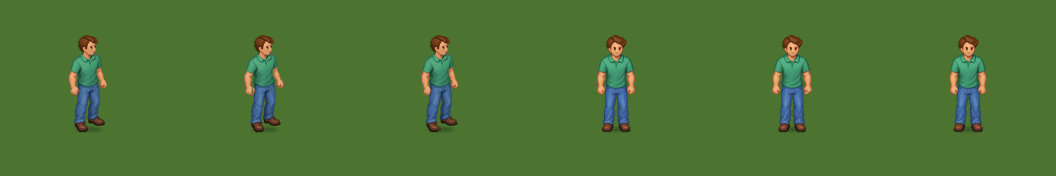
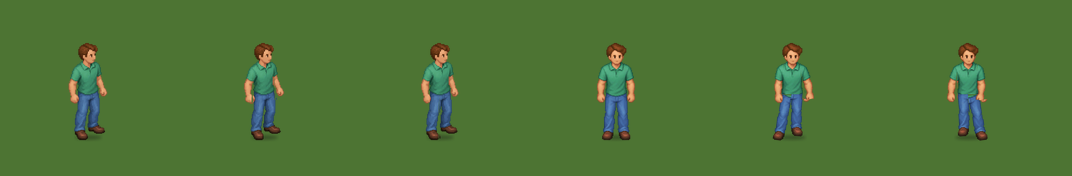
Give SOUTH frontal visitor distinct grounded walk frames

diff --git a/src/main.cpp b/src/main.cpp
@@ -3050,7 +3050,11 @@ int main() {
                         const int visual_count = mobile_animations.find_set("visitor_male_01_forge_preview") == nullptr ? 3 :
                             mobile_animations.find_set("visitor_male_01_south_front_candidate") == nullptr ? 4 : 5;
                         pedestrian_visual_index = (pedestrian_visual_index + 1) % visual_count;
-                        pedestrians.configure_visual_test(pedestrian_visual_preset(0.80F));
+                        // Two SOUTH walk frames cover a short planted step at
+                        // 220 ms each. Keep this opt-in frontal candidate slow
+                        // enough for the feet to read against world movement.
+                        const float preview_speed = pedestrian_visual_index == 4 ? 0.30F : 0.80F;
+                        pedestrians.configure_visual_test(pedestrian_visual_preset(preview_speed));
                         status = std::string("PEDESTRIAN LOOK: ") + std::string(pedestrian_visual_label());
                         break;
                     }

diff --git a/tools/visitor_forge_2d/art/concepts/south_front_candidate_v1/README.md b/tools/visitor_forge_2d/art/concepts/south_front_candidate_v1/README.md
@@ -1,19 +1,30 @@
-# SOUTH frontal — candidato de revisão V1
+# SOUTH frontal — aparência aprovada, caminhada em prévia
 
 Este estudo usa o mesmo visitante como referência e corrige somente a
-orientação visual SOUTH. Não substitui `frames_preview/`, não altera EAST,
-NORTH ou WEST e ainda não é arte aprovada.
+orientação visual SOUTH. O usuário aprovou a vista frontal, inclusive a
+diferença no rosto. Não substitui `frames_preview/` nem altera EAST, NORTH ou
+WEST: a nova caminhada ainda precisa ser vista no jogo antes da promoção.
 
 - `south_front_master.png`: fonte RGBA de 512×512, derivada de uma revisão
   visual frontal e normalizada no canvas do Visitor Forge. Editar este master
   para qualquer retoque durável de rosto, cor ou juntas.
 - `south_idle.png`, `south_walk_a.png`, `south_walk_b.png`: três frames
   exportados pelo rig de recorte 2D, em 128×128, com pés na linha 115 e
-  anchor `[64,116]`. Caminhada curta; cada pose dura 220 ms.
+  anchor `[64,116]`. A e B alternam o pé de apoio, levantam o pé oposto e
+  balançam os braços; cada pose dura 220 ms.
+- `poses/south_walk_a.json`, `poses/south_walk_b.json`: poses exclusivas da
+  candidata; as poses das demais direções e do SOUTH original permanecem.
 - `south_old_vs_front_three_poses.png`: três frames existentes à esquerda,
   três candidatos frontais à direita, em escala nativa sobre fundo neutro.
 - `south_old_vs_front_map_56px.png`: esquerda original, direita candidato,
   mesma captura de MapForge, mesmo ponto dos pés e corpo exibido a 56 px.
+- `south_gait_56px.png`: idle, A e B da candidata em escala de jogo (56 px
+  de altura), com os pés alinhados na mesma linha.
+
+No recorte original, A/B diferiam pouco do idle (silhueta 5–6%). Nas novas
+poses, a diferença é 26,6% e 26,4%; o pé mais baixo permanece na linha 115
+nos três PNGs. Isto demonstra uma alternância de pés na arte, sem ainda
+demonstrar ausência de deslizamento durante movimento no motor.
 
 Para reconstruir os três frames após retocar o master:
 
@@ -27,8 +38,8 @@ ch-visitor-forge-2d build-concept-rig \
 ch-visitor-forge-2d prototype \
   --definition out/visitor_forge_2d/south_front/definition.json \
   --pose tools/visitor_forge_2d/poses/concept/south_idle.json \
-  --pose tools/visitor_forge_2d/poses/concept/south_walk_a.json \
-  --pose tools/visitor_forge_2d/poses/concept/south_walk_b.json \
+  --pose tools/visitor_forge_2d/art/concepts/south_front_candidate_v1/poses/south_walk_a.json \
+  --pose tools/visitor_forge_2d/art/concepts/south_front_candidate_v1/poses/south_walk_b.json \
   --asset-root out/visitor_forge_2d/south_front/parts \
   --output out/visitor_forge_2d/south_front/frames
 ```
@@ -39,8 +50,11 @@ SOUTH andando, marque início com F3 e destino numa rua ao longo de +Y com
 F4; F6 envia o visitante pelo caminho. F7 sempre usa seis tiles ao longo
 de +X e portanto mostra EAST. A trajetória SOUTH aparece diagonal na tela
 isométrica; a correção aqui é a direção **do corpo**, não a projeção do mapa.
+Ao selecionar a candidata via F8, a prévia F6 inicia em 0,30 tile/s para
+acompanhar o passo curto (440 ms por ciclo); o ajuste de velocidade F7 ainda
+permite outros valores e pode exigir nova calibração visual. Se ela atravessar
+um trajeto a velocidade diferente, reavaliar a cadência junto com a rota.
 
-**Gate visual:** comparar rosto, cabelo, calça e sapatos com o visitante
-aprovado; observar juntas, transparência, contato dos pés e mudança de
-direção durante a caminhada. Este candidato pode precisar de retoque e não
-deve substituir o SOUTH original sem aprovação visual.
+**Gate visual restante:** rodar F6 para SOUTH num caminho +Y e verificar,
+em movimento, contato alternado dos sapatos, transparência nas juntas e
+possível deslizamento; somente então decidir sobre a promoção ao runtime.

diff --git a/tools/visitor_forge_2d/README.md b/tools/visitor_forge_2d/README.md
@@ -285,8 +285,11 @@ rosto, as proporções e o acabamento; não substituíram os PNGs versionados.
 Um estudo posterior está em `art/concepts/south_front_candidate_v1/`: traz
 master frontal, `idle/walk A/walk B` e comparações no tamanho real e a 56 px.
 Ele pode ser escolhido separadamente no teste F8 quando o build habilita
-`CH_VISITOR_FORGE_PREVIEW=ON`. Ainda é candidato para revisão, não substitui
-o SOUTH atual e precisa ser comparado com o personagem original em movimento.
+`CH_VISITOR_FORGE_PREVIEW=ON`. A aparência frontal foi aprovada; as novas
+poses próprias alternam pé de apoio e balanço dos braços, preservando a linha
+115 dos pés. O teste da caminhada em movimento no motor ainda está pendente:
+o candidato não substitui o SOUTH atual até observar o contato e calibrar a
+velocidade no jogo.
 
 Um novo desenho SOUTH precisa manter o mesmo personagem, paleta, textura e
 silhueta na escala de jogo; rosto e peito devem ler como frente, sem apontar
